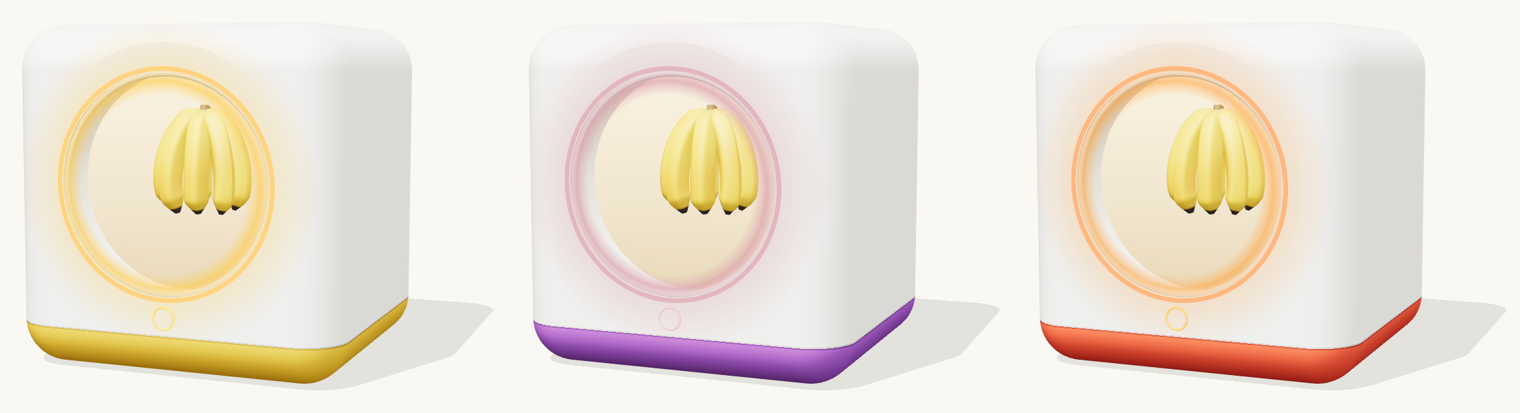
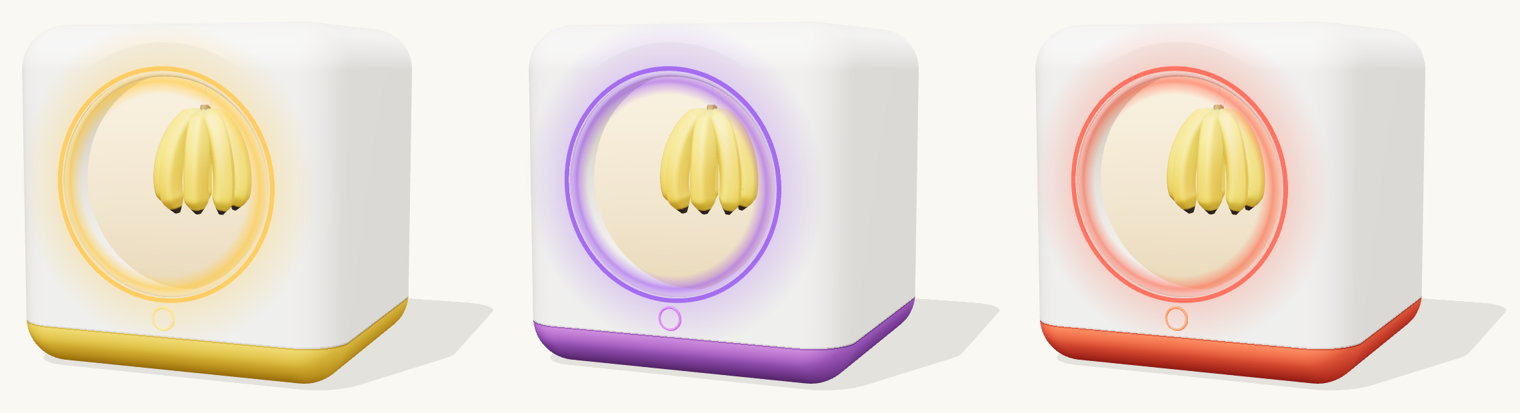
빛 링: 첫 색 즉시 적용(이전 색과 섞여 분홍으로 보이던 문제), 보라 LED 진하게, 링 흰색 섞임 줄임, 3색 캡처 v9

diff --git a/explode.js b/explode.js
@@ -101,15 +101,16 @@ const WIN_C = new THREE.Vector2(-SHELL.hole.x, CY0 + SHELL.hole.y), WIN_R = SHEL
 // 하단 색 — 노랑(기본)·보라·빨강. 몸체·창은 그대로, 하단·창 빛 링·버튼 링이 같은 색으로 바뀝니다
 const COLORS = {
   yellow: { a: 0xe8b52a, b: 0xe8b52a, grain: 0, led: 0xffc83c },
-  purple: { a: 0x9a5fc0, b: 0x9a5fc0, grain: 0, led: 0xa04ff0 },
+  purple: { a: 0x9a5fc0, b: 0x9a5fc0, grain: 0, led: 0x9a4ff0 },
   red: { a: 0xe4573f, b: 0xe4573f, grain: 0, led: 0xff5a3c },
 };
 // 빛 링은 고른 하단 색과 같은 색으로 켜집니다(색을 바꾸면 부드럽게 넘어감)
 const LED = { inner: null, cur: new THREE.Color(0xffc83c), tgt: new THREE.Color(0xffc83c) };
 const BASE_COL = { a: { value: new THREE.Color() }, b: { value: new THREE.Color() }, grain: { value: 0 } };
-function setColor(k) {
+function setColor(k, instant) {
   const c = COLORS[k] || COLORS.yellow;
   BASE_COL.a.value.set(c.a); BASE_COL.b.value.set(c.b); BASE_COL.grain.value = c.grain; LED.tgt.set(c.led);
+  if (instant) LED.cur.copy(LED.tgt);   // 처음 색은 바로, 단추로 바꿀 때만 부드럽게 넘어감
   document.querySelectorAll('[data-xv-color]').forEach(b => b.classList.toggle('on', b.dataset.xvColor === k));
 }
 window.xvSetColor = setColor;
@@ -473,7 +474,7 @@ function frame(now) {
   if (LED.t0 === undefined && sec.getBoundingClientRect().top < innerHeight) LED.t0 = now;
   const ramp = LED.t0 === undefined ? 0 : Math.min(1, (now - LED.t0) / 1800), on = ramp * ramp * (3 - 2 * ramp);
   const breathe = on * (0.85 + 0.15 * Math.sin(now / 420));
-  M.ringLed.color.copy(LED.cur).lerp(new THREE.Color(0xffffff), 0.18).lerp(new THREE.Color(0xe8e4dc), 1 - on);
+  M.ringLed.color.copy(LED.cur).lerp(new THREE.Color(0xffffff), 0.08).lerp(new THREE.Color(0xe8e4dc), 1 - on);
   if (M.glow) { M.glow.color.copy(LED.cur); M.glow.opacity = 0.9 * breathe; }
   if (LED.inner) { LED.inner.color.copy(LED.cur).lerp(new THREE.Color(0xfff2d8), 0.6); LED.inner.intensity = 1.2 * breathe; }
   M.btnRing.color.copy(LED.cur); M.btnRing.emissive.copy(LED.cur).multiplyScalar(on);
@@ -510,6 +511,6 @@ function frame(now) {
   requestAnimationFrame(frame);
 }
 requestAnimationFrame(frame);
-setColor(new URLSearchParams(location.search).get('c') || 'yellow');
+setColor(new URLSearchParams(location.search).get('c') || 'yellow', true);
 document.querySelectorAll('[data-xv-color]').forEach(b => b.addEventListener('click', () => setColor(b.dataset.xvColor)));
 document.documentElement.classList.add('xv-ready');
